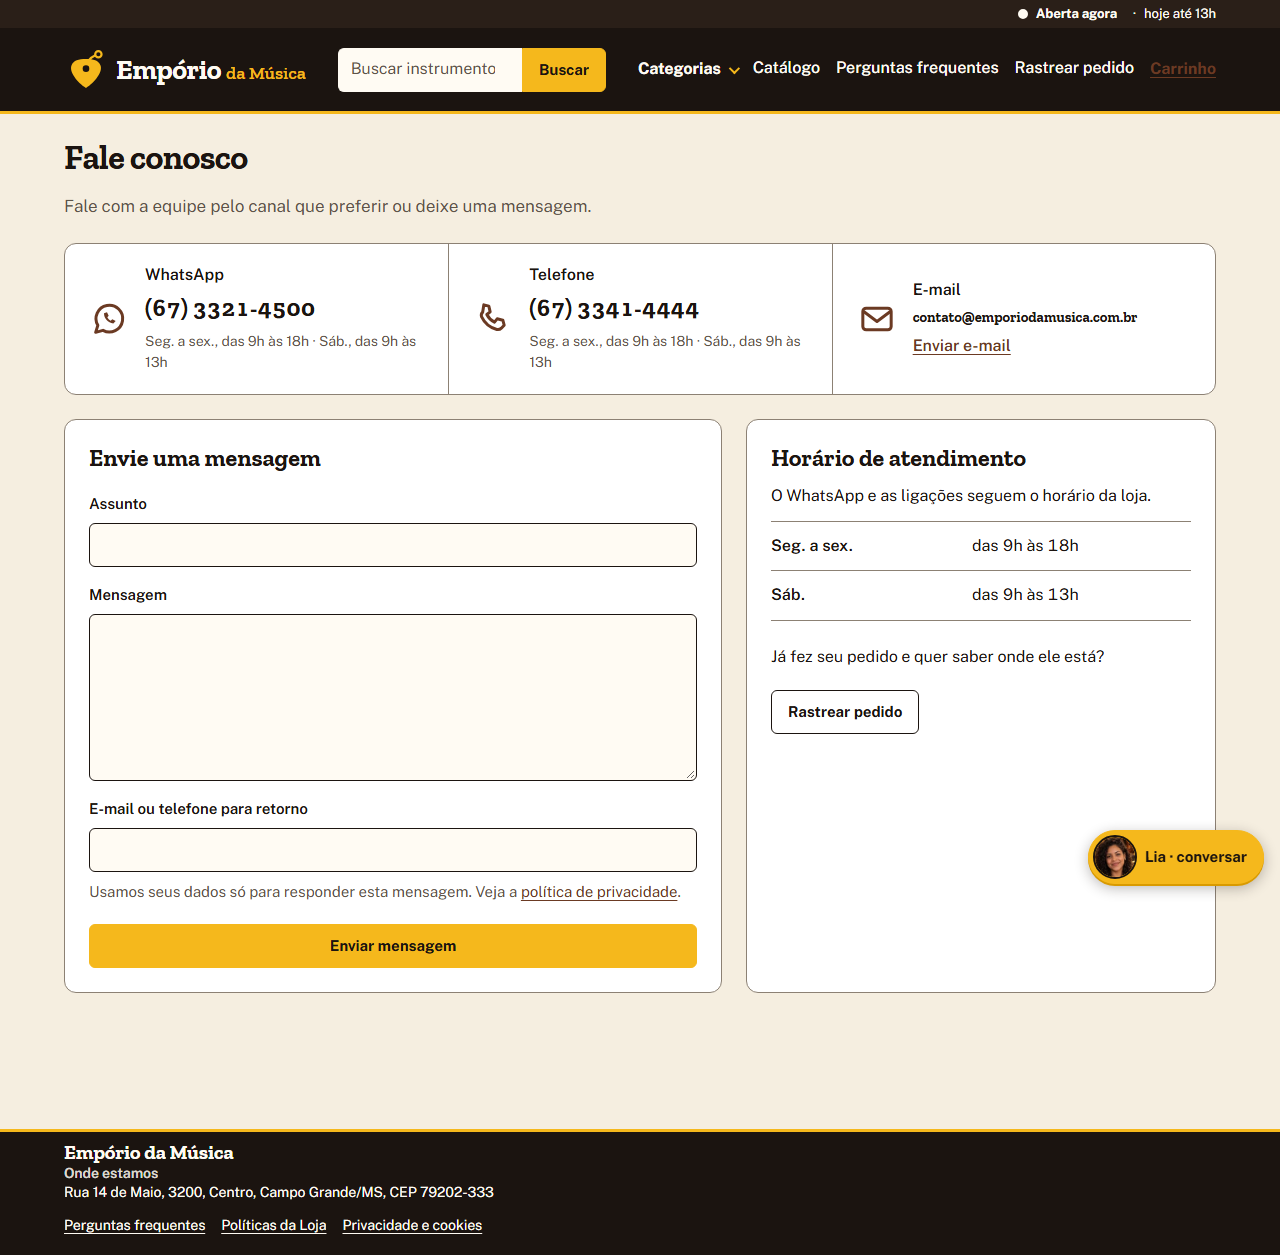
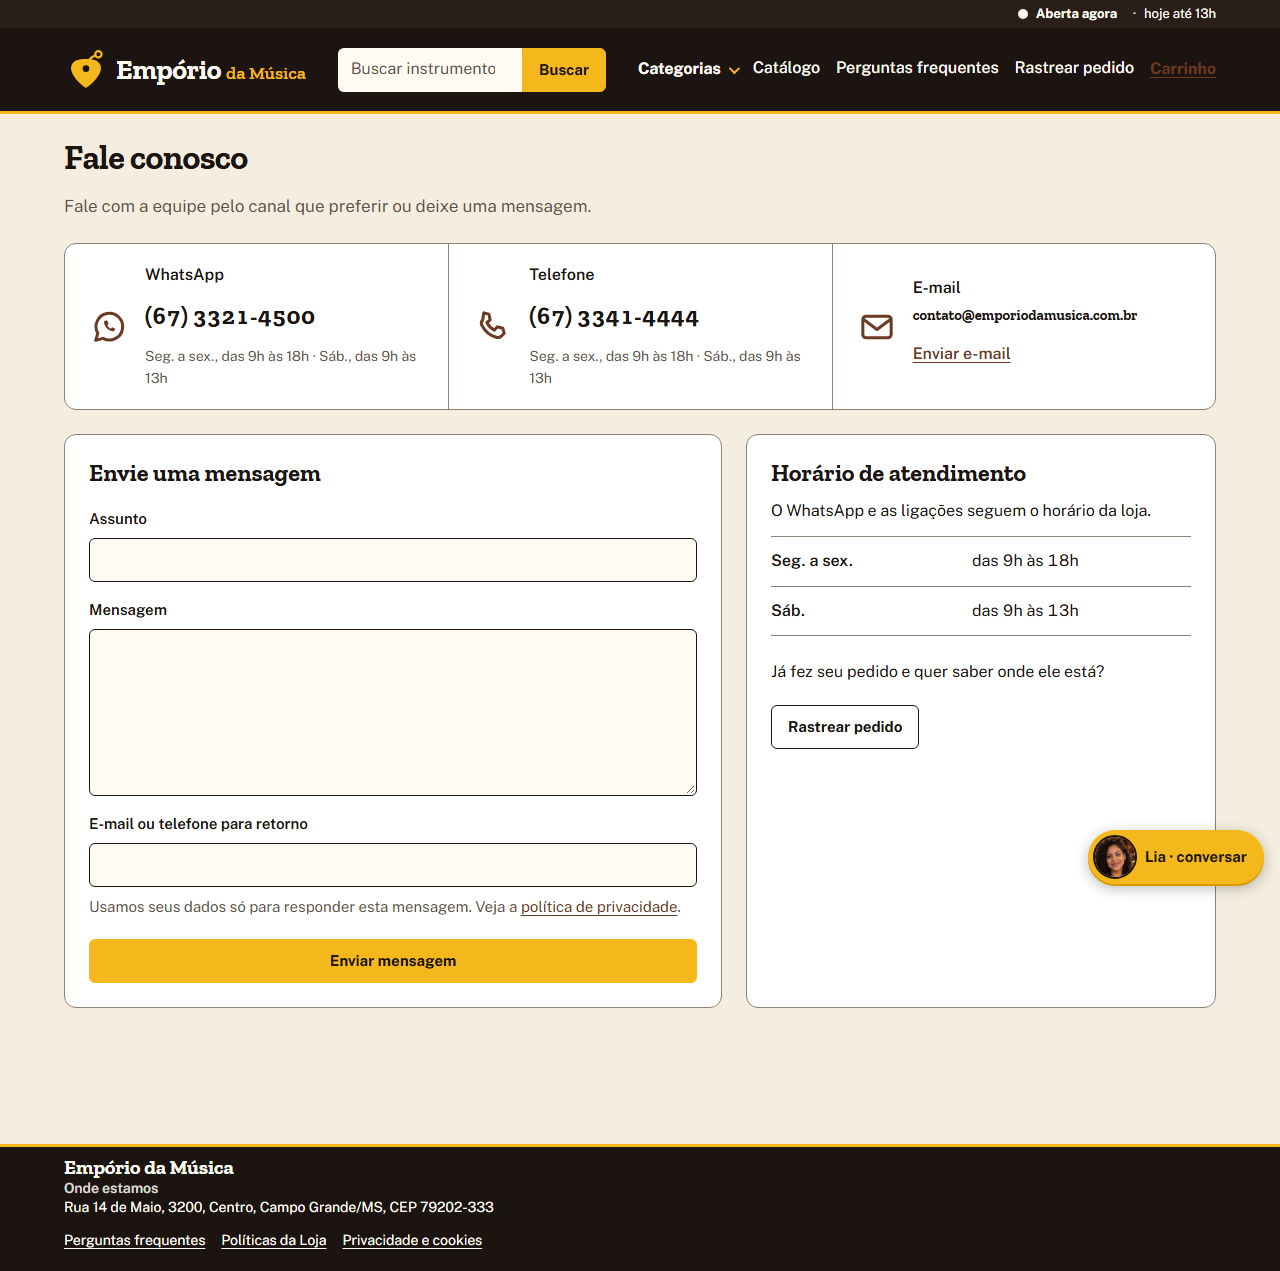
QA movel: fonte 16px, CEP postal-code, autocapitalize e foco no rastreio, alvos de 44px, fotos lazy e carrosseis
Claude-Session: https://claude.ai/code/session_015Vju7JSfSoavS6n6CSE4J7

diff --git a/src/emporio/web/static/site.css b/src/emporio/web/static/site.css
@@ -65,7 +65,7 @@ code { font-size: .9em; background: var(--creme-claro); padding: 0 var(--s1); bo
 
 /* formulários e botões */
 input, select, textarea, button { font: inherit; color: var(--tinta); }
-input, select, textarea { min-height: 44px; padding: var(--s2) var(--s3); border: 1px solid var(--tinta); border-radius: var(--raio); background: var(--creme-claro); }
+input, select, textarea { font-size: 1rem; min-height: 44px; padding: var(--s2) var(--s3); border: 1px solid var(--tinta); border-radius: var(--raio); background: var(--creme-claro); }
 textarea { width: 100%; min-height: 8rem; resize: vertical; }
 input::placeholder { color: var(--cinza-texto); opacity: 1; }
 button, .botao { display: inline-flex; align-items: center; justify-content: center; min-height: 44px; padding: var(--s2) var(--s4);
@@ -91,7 +91,7 @@ button:disabled { opacity: .55; cursor: wait; }
 /* cabeçalho compacto, com a busca à vista */
 .topo { background: var(--palco); color: var(--creme-claro); border-bottom: 3px solid var(--ipe); position: relative; z-index: 20; }
 .topo-in { display: grid; grid-template-columns: 1fr auto; gap: var(--s2) var(--s4); padding-block: var(--s4); align-items: center; }
-.marca { display: inline-flex; align-items: center; gap: var(--s2); text-decoration: none; color: var(--creme-claro); justify-self: start; }
+.marca { min-height: 44px; display: inline-flex; align-items: center; gap: var(--s2); text-decoration: none; color: var(--creme-claro); justify-self: start; }
 .marca-svg { width: 44px; height: 44px; color: var(--ipe); --furo: var(--palco); flex: none; }
 .marca-nome { font-family: var(--titulo); font-weight: 700; font-size: 1.75rem; line-height: 1; letter-spacing: -.01em; white-space: nowrap; }
 .marca-2 { font-weight: 600; font-size: 1.125rem; color: var(--ipe); letter-spacing: 0; }
@@ -559,3 +559,10 @@ html.chat-tela-cheia .lia-camada { display: block; position: fixed; left: 0; rig
 .busca-vazia-caminhos li { padding-block: var(--s1); }
 .politicas-conteudo, .politica { min-width: 0; }
 .credito-lia { display: flex; align-items: center; gap: var(--s4); } .credito-lia img { border-radius: 50%; }
+
+/* alvos de toque de 44 px (QA movel): links soltos, migalhas, telefone, e-mail e pontos do carrossel */
+.secao-cabeca > a, .migalha a, a.bloco-fone, .enviar-email, .legenda-ilustrativa, .catalogo-aviso a, .card-acesso { display: inline-flex; align-items: center; min-height: 44px; min-width: 44px; }
+.carrossel-pontos button { width: 44px; }
+.carrossel-controles { flex-wrap: wrap; }
+.carrossel-controles > button { flex: none; }
+@media (max-width: 480px) { .carrossel-pontos { order: 3; width: 100%; justify-content: center; flex-wrap: wrap; gap: 0; } }

diff --git a/src/emporio/web/templates/rastreio.html b/src/emporio/web/templates/rastreio.html
@@ -5,18 +5,18 @@
 <h1>Rastrear pedido</h1>
 <form class="form-coluna" action="/rastreio" method="post">
   <label for="r-pedido">Número do pedido</label>
-  <input id="r-pedido" name="pedido" value="{{ pedido }}" required>
+  <input id="r-pedido" name="pedido" value="{{ pedido }}" required autocapitalize="characters" autocorrect="off" spellcheck="false" autocomplete="off">
   <label for="r-final">Final do telefone (4 dígitos)</label>
   <input id="r-final" name="final_telefone" inputmode="numeric" maxlength="4" pattern="[0-9]{4}" aria-describedby="r-dica">
   <p id="r-dica" class="nota-valores">Para pedidos feitos aqui no site (número começa com {{ prefixo_pedido }}), informe só o número, sem o telefone.</p>
   <button type="submit" class="botao-cheio">Consultar</button>
 </form>
-{% if aviso %}<p class="aviso" role="alert">{{ aviso }}</p>{% endif %}
-{% if bloqueio %}<p class="aviso aviso-erro" role="alert">{{ bloqueio }} Se precisar de ajuda agora, use o <a href="/fale-conosco">Fale conosco</a>.</p>{% endif %}
+{% if aviso %}<p class="aviso" tabindex="-1" data-resultado-rastreio role="alert">{{ aviso }}</p>{% endif %}
+{% if bloqueio %}<p class="aviso aviso-erro" tabindex="-1" data-resultado-rastreio role="alert">{{ bloqueio }} Se precisar de ajuda agora, use o <a href="/fale-conosco">Fale conosco</a>.</p>{% endif %}
 {% if demo %}{% set d = demo %}{% include "_pedido_demo.html" %}
 {% include "_linha_do_tempo.html" %}{% endif %}
 {% if resultado %}
-<section class="pedido" aria-label="Pedido">
+<section class="pedido" aria-label="Pedido" tabindex="-1" data-resultado-rastreio>
   <h2>Pedido {{ resultado.pedido_id }}</h2>
   <p>Situação: <strong>{{ status_pedido.get(resultado.status, resultado.status) }}</strong></p>
   {% include "_linha_do_tempo.html" %}

diff --git a/src/emporio/web/templates/_card.html b/src/emporio/web/templates/_card.html
@@ -1,6 +1,6 @@
 <article class="card" data-produto="{{ p.id }}">
   <a class="card-arte" href="/produto/{{ p.id }}" tabindex="-1" aria-hidden="true">
-    {% if p.foto %}<img src="{{ p.foto.src }}" width="{{ p.foto.largura }}" height="{{ p.foto.altura }}" alt="" loading="{{ 'eager' if carrossel else 'lazy' }}" decoding="async">
+    {% if p.foto %}<img src="{{ p.foto.src }}" width="{{ p.foto.largura }}" height="{{ p.foto.altura }}" alt="" loading="{{ 'eager' if (foto_prioritaria and not carrossel) else 'lazy' }}" decoding="async">
     {% else %}<svg viewBox="0 0 64 64"><use href="/static/ilustracoes.svg#{{ p.ilustracao or 'instrumento' }}"/></svg>{% endif %}
   </a>
   <div class="card-corpo">

diff --git a/src/emporio/web/templates/checkout.html b/src/emporio/web/templates/checkout.html
@@ -21,7 +21,7 @@
     </label>
     {% set oob = false %}{% include "_checkout_parcelas.html" %}
     <label for="cep">CEP de entrega
-      <input id="cep" name="cep" value="{{ c.cep }}" autocomplete="off" inputmode="numeric" maxlength="9" placeholder="Somente números"
+      <input id="cep" name="cep" value="{{ c.cep }}" autocomplete="postal-code" inputmode="numeric" maxlength="9" placeholder="Somente números"
              aria-describedby="cep-ajuda">
       <small id="cep-ajuda" class="cep-ajuda"><a href="https://buscacepinter.correios.com.br/app/endereco/index.php" target="_blank" rel="noopener noreferrer">Não sei meu CEP</a></small>
     </label>

diff --git a/src/emporio/web/static/formularios.js b/src/emporio/web/static/formularios.js
@@ -21,6 +21,14 @@
     p.focus({ preventScroll: true });
   }
 
+  // Resultado do rastreio: a página já chega com a resposta; rola até ela e leva o foco (teclado e leitor de tela).
+  document.addEventListener("DOMContentLoaded", function () {
+    var r = document.querySelector("[data-resultado-rastreio]");
+    if (!r) return;
+    r.scrollIntoView({ block: "start" });
+    r.focus({ preventScroll: true });
+  });
+
   document.addEventListener("submit", function (e) {
     var form = e.target;
     if (!form.matches || !form.matches("form") || (form.method || "").toLowerCase() !== "post") return;

diff --git a/src/emporio/web/templates/catalogo.html b/src/emporio/web/templates/catalogo.html
@@ -36,7 +36,7 @@
 {% else %}
   <p class="contagem" data-total="{{ total }}">{{ total }} {{ 'produto' if total == 1 else 'produtos' }}, do menor para o maior preço. Página {{ pagina_atual }} de {{ paginas }}.</p>
   <div class="grade grade-catalogo">
-  {% for p in itens %}{% include "_card.html" %}{% endfor %}
+  {% for p in itens %}{% set foto_prioritaria = loop.index <= 2 %}{% include "_card.html" %}{% endfor %}
   </div>
   {% if paginas > 1 %}
   <nav class="paginacao" aria-label="Páginas do catálogo">

diff --git a/src/emporio/web/templates/_pedido_demo.html b/src/emporio/web/templates/_pedido_demo.html
@@ -1,4 +1,4 @@
-<section class="pedido pedido-demo" aria-label="Pedido {{ d.numero }}">
+<section class="pedido pedido-demo" aria-label="Pedido {{ d.numero }}" tabindex="-1" data-resultado-rastreio>
   <p class="categoria">Pedido</p>
   <h2 class="pedido-numero">{{ d.numero }}</h2>
   <p class="aviso aviso-demo"><strong>Nenhum valor foi cobrado.</strong> Este pedido não gera cobrança nem entrega.</p>

diff --git a/tests/e2e/test_qa_movel_e2e.py b/tests/e2e/test_qa_movel_e2e.py
@@ -186,3 +186,43 @@ def test_ritmo_da_conversa_cliente_escrevendo_resposta(servidor_movel, movel):
     pagina.tap("#chat-alternar")
     assert pagina.locator("#chat-log .escrevendo").count() == 0
     assert pagina.locator("#chat-log .msg.voce").count() == 1 and pagina.locator("#chat-log .msg.lia").count() == 2
+
+
+def test_campos_com_fonte_de_16px_e_atributos_de_teclado(servidor_movel, movel):
+    pagina, _, _ = movel
+    ruins = []
+    for caminho in ("/", "/catalogo", "/fale-conosco", "/rastreio", "/carrinho"):
+        pagina.goto(servidor_movel + caminho)
+        ruins += pagina.evaluate("""() => [...document.querySelectorAll('input:not([type=hidden]):not([type=checkbox]), select, textarea')]
+            .filter(e => parseFloat(getComputedStyle(e).fontSize) < 16).map(e => e.name + ':' + getComputedStyle(e).fontSize)""")
+    assert ruins == []  # abaixo de 16 px o iOS aproxima a tela ao focar o campo
+    pagina.goto(servidor_movel + "/produto/90")
+    pagina.click("text=Adicionar ao carrinho")
+    pagina.goto(servidor_movel + "/checkout")
+    assert pagina.get_attribute("#cep", "autocomplete") == "postal-code"
+    assert pagina.evaluate("parseFloat(getComputedStyle(document.querySelector('#forma')).fontSize)") >= 16
+    pagina.goto(servidor_movel + "/rastreio")
+    assert pagina.get_attribute("#r-pedido", "autocapitalize") == "characters"
+
+
+def test_rastreio_rola_e_leva_foco_ao_resultado(servidor_movel, movel):
+    pagina, _, _ = movel
+    pagina.goto(servidor_movel + "/rastreio")
+    pagina.fill("#r-pedido", "PED-999999")
+    pagina.fill("#r-final", "1234")
+    pagina.tap("main form button[type=submit]")
+    pagina.wait_for_selector("[data-resultado-rastreio]")
+    pagina.wait_for_timeout(300)
+    m = pagina.evaluate("""() => { const r = document.querySelector('[data-resultado-rastreio]');
+        return {foco: document.activeElement === r, topo: r.getBoundingClientRect().top, h: innerHeight}; }""")
+    assert m["foco"] and 0 <= m["topo"] < m["h"] * 0.6, m
+
+
+def test_fotos_do_catalogo_e_carrosseis_lazy(servidor_movel, movel):
+    pagina, _, _ = movel
+    pagina.goto(servidor_movel + "/catalogo")
+    modos = pagina.evaluate("[...document.querySelectorAll('.grade-catalogo img')].map(i => i.getAttribute('loading'))")
+    assert len(modos) > 3 and modos[:2] == ["eager", "eager"] and set(modos[2:]) == {"lazy"}, modos
+    pagina.goto(servidor_movel + "/")
+    modos = pagina.evaluate("[...document.querySelectorAll('.carrossel img')].map(i => i.getAttribute('loading'))")
+    assert modos and set(modos) == {"lazy"}, modos

diff --git a/tests/e2e/test_alvos_44_e2e.py b/tests/e2e/test_alvos_44_e2e.py
@@ -1,0 +1,37 @@
+"""Alvos de toque de 44 px nas páginas do site em 360 e 390 px, medidos no navegador."""
+from __future__ import annotations
+
+import pytest
+
+pytestmark = pytest.mark.e2e
+
+PAGINAS = ["/", "/catalogo", "/produto/90", "/carrinho", "/checkout", "/rastreio", "/fale-conosco",
+           "/perguntas-frequentes", "/politicas", "/privacidade", "/creditos"]
+
+JS = """() => {
+  const ruins = [];
+  const sel = 'a[href], button, input:not([type=hidden]):not([type=checkbox]):not([type=radio]), select, summary, textarea';
+  for (const e of document.querySelectorAll(sel)) {
+    if (e.closest('.so-leitor, .isca, [hidden]') || e.classList.contains('pular') || e.closest('.carrossel-lista[aria-hidden]')) continue;
+    const cs = getComputedStyle(e);
+    if (cs.display === 'none' || cs.visibility === 'hidden') continue;
+    if (e.tagName === 'A' && cs.display === 'inline') continue;        // link dentro de frase: exceção de texto corrido
+    const r = e.closest('.carrossel-item') ? {width: e.offsetWidth, height: e.offsetHeight} : e.getBoundingClientRect();  // cartões laterais do carrossel têm escala animada: vale o tamanho de layout
+    if (!r.width || !r.height) continue;
+    if (r.height < 43.5 || r.width < 43.5) ruins.push([e.tagName.toLowerCase() + (e.className ? '.' + String(e.className).split(' ')[0] : ''), (e.textContent || e.name || '').trim().slice(0, 24), Math.round(r.width), Math.round(r.height)]);
+  }
+  return ruins;
+}"""
+
+
+@pytest.mark.parametrize("caminho", PAGINAS)
+def test_alvos_de_toque_tem_44px(servidor_movel, movel, caminho):
+    pagina, _, _ = movel
+    if caminho == "/checkout":
+        pagina.goto(servidor_movel + "/produto/90")
+        pagina.click("text=Adicionar ao carrinho")
+    pagina.goto(servidor_movel + caminho)
+    if pagina.locator(".menu-botao").is_visible():
+        pagina.tap(".menu-botao")  # mede também os links dentro do menu recolhido
+    ruins = pagina.evaluate(JS)
+    assert not ruins, "; ".join(map(str, ruins))
